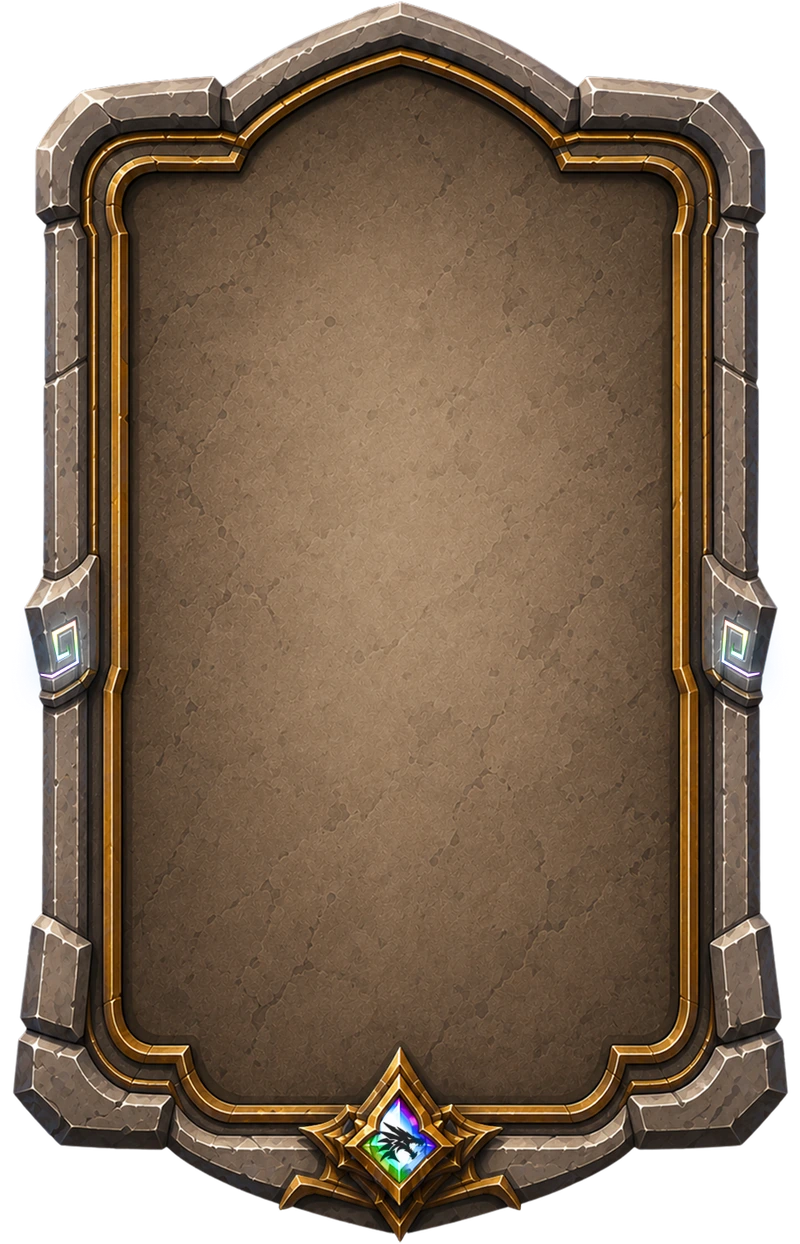
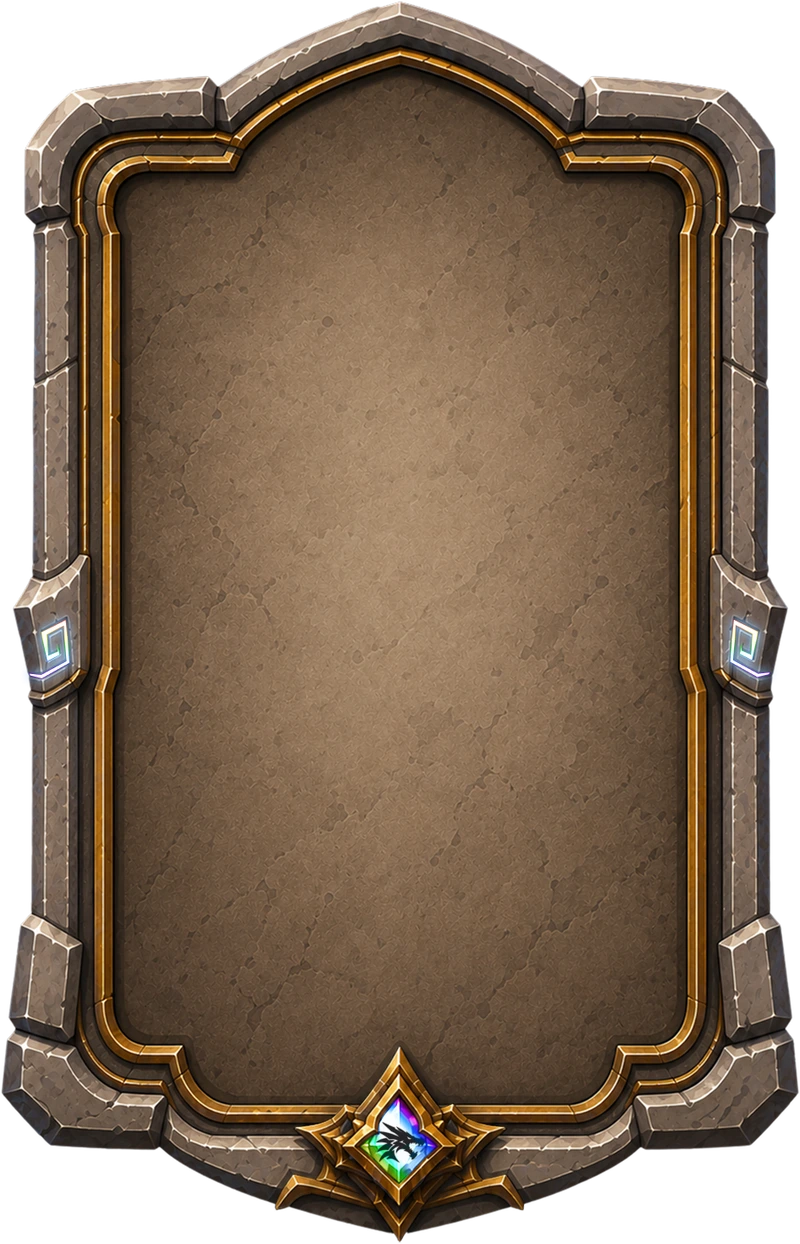
feat(ui): Neutral tribe plate + dragon re-exported at native ratio
Added neutral to TRIBE_PLATES (cardplate-neutral.webp, 945x1469 native); every tribe now
has a plate, default cardplate.webp is fallback only. Neutral shows 'NEUTRAL' on the gem
like the others. Re-converted dragon from the owner's fresh 945x1469 export -> pixel-clean,
no more ~3% stretch.

typecheck + lint + 1649 tests + build:web green.

Changed region(s): [[0.0, 0.0, 0.5, 0.9775], [0.5312, 0.0305, 1.0, 0.9775]]

diff --git a/packages/ui/src/Card.tsx b/packages/ui/src/Card.tsx
@@ -61,6 +61,7 @@ const TRIBE_PLATES: Partial<Record<Tribe, string>> = {
   mech: `${import.meta.env.BASE_URL}frames/cardplate-mech.webp`,
   demon: `${import.meta.env.BASE_URL}frames/cardplate-demon.webp`,
   undead: `${import.meta.env.BASE_URL}frames/cardplate-undead.webp`,
+  neutral: `${import.meta.env.BASE_URL}frames/cardplate-neutral.webp`,
 };
 const plateSrcFor = (tribe: Tribe | undefined): string =>
   (tribe && TRIBE_PLATES[tribe]) || CARD_PLATE_SRC;

diff --git a/docs/devlog.md b/docs/devlog.md
@@ -5,6 +5,15 @@
 Added a `tribe name · size` slider (`--plate-tribe-sf`, font size × card width, default 0.062) to the 🂠 Card
 Plate tuner, next to the X/Y position dials. Verified live: 0.062 → 0.1 grew the label 5.9 → 9.4px.
 
+### feat(ui): Neutral tribe plate + dragon re-exported clean (all SIX plated)
+
+Added Neutral to `TRIBE_PLATES` (`cardplate-neutral.webp`, 945×1469 native) — so every tribe including
+neutral now has its own plate; the default `cardplate.webp` remains only as the safety fallback. Neutral gets
+the same treatment as the others: its name ("NEUTRAL") on the plate gem, drawer label suppressed. Also
+re-exported Dragon from the owner's fresh 945×1469 export (ratio 1.5545), so it's now pixel-clean like the
+rest — the earlier ~3% fill-stretch is gone. Verified live: neutral → `cardplate-neutral.webp` with "Neutral"
+on the gem.
+
 ### feat(ui): Demon + Undead tribe plates (all five tribes now plated)
 
 Added Demon and Undead to `TRIBE_PLATES` and refreshed Mech from the owner's final v2 art — so every
